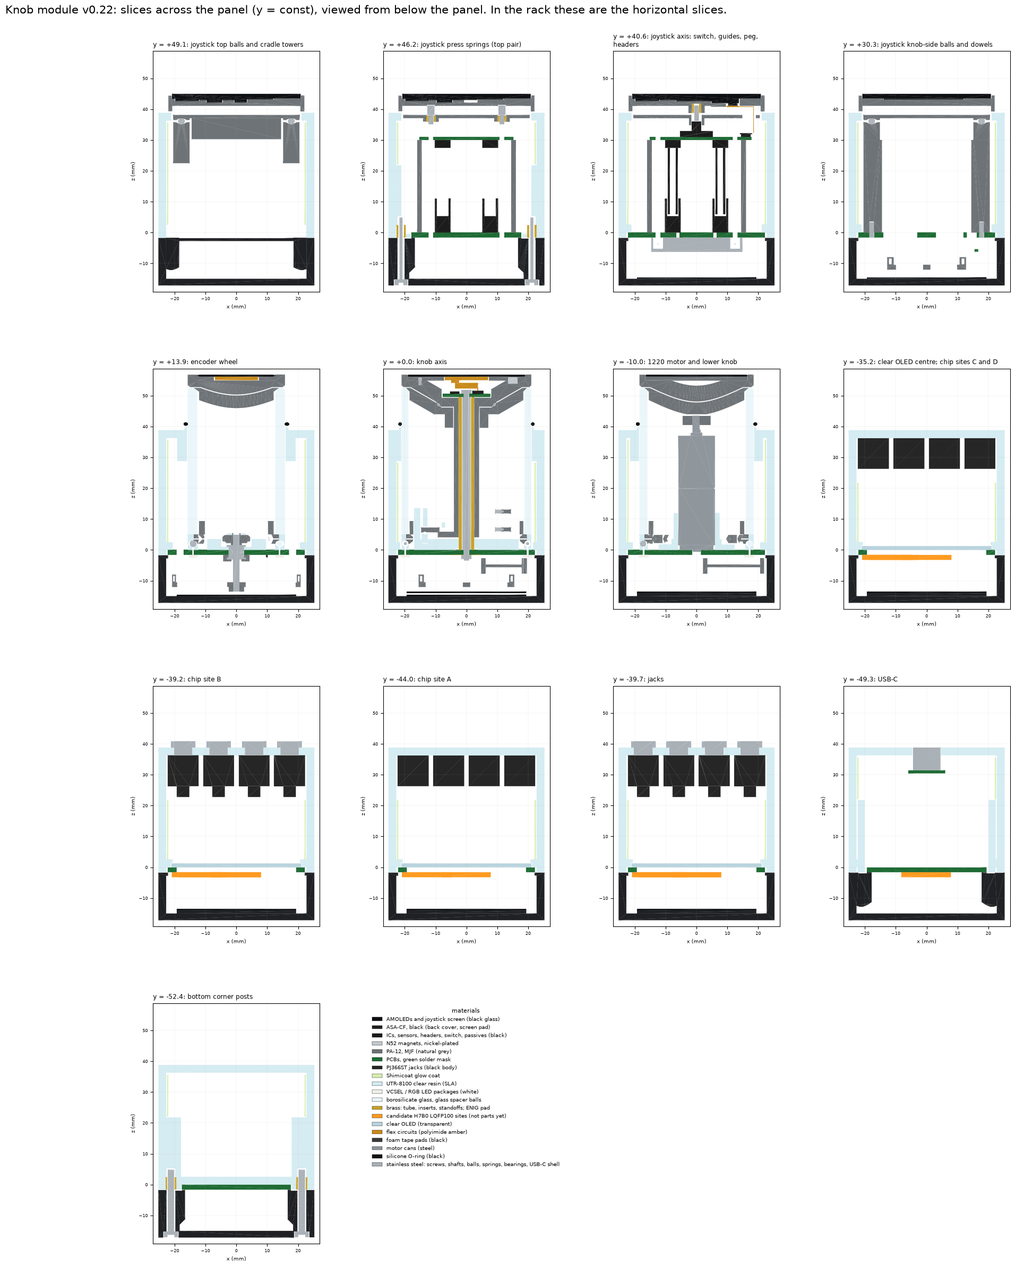
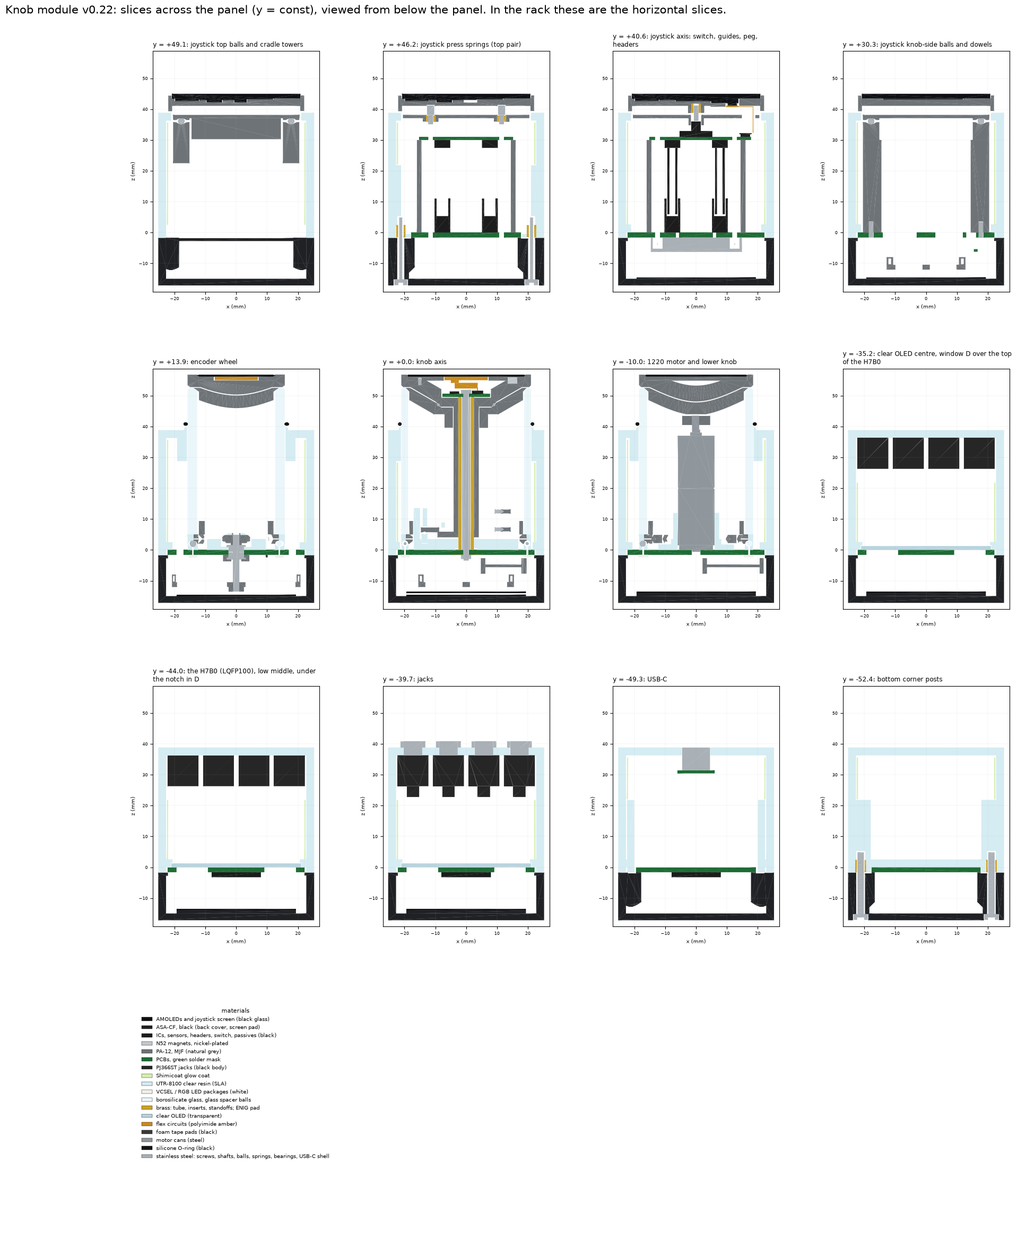
H7B0 LQFP100 on the board back at the low middle; window D notched round it [Ed 18:20, 18:34]
- electronics mcu: STM32H7B0VBT6 LQFP100 at (0, -43.95), panel frame, board back; 16 x 16 x 1.6
  over the leads [S], 17.2 courtyard for the chip + caps [A], 0.5 margin to the window
- tools/pcb_windows.py notches the courtyard + margin out of D (--no-mcu for the old D);
  D 697.7 mm² (was 917.4), A/B/C/E unchanged; 83% see-through behind the OLED's lit area
- model part "MCU STM32H7B0VBT6 LQFP100 (PCB back)"; BOM / colour rules; KiCad constraints carry mcu
- electronics checks: courtyard to window 0.50, chip vs back-side parts 0.98; OLED ledge row
  takes any D* window; KiCad parts under the courtyard left out of the proxy (R30-R32)
- atlas: candidate markers removed, cuts through the real chip
- full build 209/209, 0 clashes

Claude-Session: https://claude.ai/code/session_01WWsCM7QCNQUDgpRNvrXSbD

diff --git a/cad/knob-param/knobparam/electronics/params.py b/cad/knob-param/knobparam/electronics/params.py
@@ -25,16 +25,23 @@ P = dict(
                     # r 21.28, base-cradle track r 21.26), 0.5 round every obstacle (corner-column rings, encoder daughterboard/header/
                     # standoff, bearing 2 seat, joystick cradle footprint + its geom.json holes), 1.5 board rail, screen edges ±19.36,
                     # D = clear OLED less its 1.6 ledge, C/E 0.5 short of the OLED edge, 6 mm A/B web on x = 0 [A].
-                    # v0.20 (1.0 margins, keep-out 24.1): A 71.7, B 22.3, C 11.6, D 900.8, E 11.6 mm². A, B: rear AMOLED; C, E: front AMOLED; D: clear OLED
+                    # v0.20 (1.0 margins, keep-out 24.1): A 71.7, B 22.3, C 11.6, D 900.8, E 11.6 mm². A, B: rear AMOLED; C, E: front AMOLED; D: clear OLED (notched for the H7B0)
         "A": [(-19.36, 26.24), (-19.24, 26.73), (-18.81, 27.14), (-18.42, 27.24), (-17.56, 27.21), (-16.93, 27.33), (-16.22, 27.63), (-15.62, 28.09), (-15.13, 28.71), (-14.68, 29.6), (-14.07, 30.07), (-13.92, 31.36), (-13.63, 31.75), (-13.29, 31.94), (-3.9, 31.98), (-3.37, 31.75), (-3.04, 31.27), (-3, 22.65), (-3.04, 22.35), (-3.23, 22.01), (-3.73, 21.69), (-5.99, 21.17), (-8.04, 20.48), (-9.77, 19.71), (-11.42, 18.8), (-12.99, 17.75), (-14.47, 16.57), (-16.12, 14.98), (-17.63, 13.17), (-17.86, 12.99), (-18.24, 12.86), (-18.63, 12.89), (-18.98, 13.07), (-19.24, 13.37), (-19.36, 13.75)],
         "B": [(5.48, 21.31), (3.54, 21.76), (3.23, 22.01), (3, 22.55), (3, 30.98), (3.17, 31.54), (3.53, 31.86), (4, 31.98), (10.08, 31.98), (10.55, 31.86), (10.85, 31.62), (12.46, 29.71), (12.69, 29.17), (12.65, 28.78), (12.53, 28.52), (11.01, 27.18), (10.9, 26.93), (10.93, 26.66), (14.35, 22.55), (14.62, 22.38), (14.94, 22.41), (16.48, 23.66), (16.76, 23.76), (17.15, 23.77), (17.66, 23.5), (19.25, 21.6), (19.36, 21.15), (19.36, 13.85), (19.24, 13.38), (18.98, 13.07), (18.53, 12.87), (18.14, 12.88), (17.77, 13.04), (16.03, 15.07), (14.37, 16.66), (12.45, 18.14), (10.37, 19.4), (8.79, 20.17), (7.16, 20.8)],
         "C": [(10.43, -19.46), (12.67, -17.99), (14.47, -16.57), (16.02, -15.07), (17.78, -13.04), (18.14, -12.88), (18.53, -12.87), (18.9, -13.01), (19.19, -13.29), (19.36, -13.85), (19.36, -20.08), (19.24, -20.55), (18.92, -20.91), (18.36, -21.08), (11.02, -21.06), (10.51, -20.79), (10.24, -20.28), (10.29, -19.71)],
-        "D": [(19.36, -45.9), (19.28, -46.28), (19.07, -46.61), (18.74, -46.82), (18.36, -46.9), (-18.36, -46.9), (-18.83, -46.78), (-19.24, -46.37), (-19.36, -45.9), (-19.36, -24.18), (-19.24, -23.71), (-18.83, -23.3), (-18.36, -23.18), (18.36, -23.18), (18.83, -23.3), (19.24, -23.71), (19.36, -24.18)],
+        # [Ed 18:34] D notched round the H7B0 LQFP100 at the low middle (mcu below): 697.7 mm², was 917.4
+        "D": [(-9.1, -34.85), (-9.1, -45.9), (-9.14, -46.19), (-9.33, -46.53), (-9.63, -46.78), (-10.1, -46.9), (-18.36, -46.9), (-18.74, -46.82), (-18.99, -46.67), (-19.28, -46.28), (-19.36, -45.9), (-19.36, -24.18), (-19.24, -23.71), (-18.92, -23.35), (-18.36, -23.18), (18.36, -23.18), (18.74, -23.26), (19.19, -23.62), (19.36, -24.18), (19.36, -45.9), (19.28, -46.28), (18.92, -46.73), (18.36, -46.9), (10.1, -46.9), (9.63, -46.78), (9.33, -46.53), (9.14, -46.19), (9.1, -45.9), (9.1, -34.85)],
         "E": [(-19.36, -13.85), (-19.24, -13.37), (-18.82, -12.96), (-18.33, -12.85), (-17.78, -13.04), (-16.03, -15.07), (-14.47, -16.57), (-12.67, -17.99), (-10.5, -19.38), (-10.29, -19.71), (-10.22, -20.09), (-10.26, -20.38), (-10.45, -20.72), (-10.75, -20.96), (-11.22, -21.08), (-18.36, -21.08), (-18.65, -21.04), (-18.99, -20.85), (-19.24, -20.55), (-19.36, -20.18)],
     },
     clear_oled=(42.04, 27.22, 1.25),   # [S] EastRising ER-OLED1.51-1B / Waveshare 1.51" SSD1309 transparent, on the PCB front over window D
     clear_oled_xy=(0.0, -35.19),   # [Ed 2 Nov] v0.20: was -36.6; the knob dropped 5.2 on the panel (case knob_drop2) and the OLED 3.8
                                   # (case oled_drop), so it sits 1.4 closer to the knob. Window D moved with it
+    # [Ed 18:20 / 18:34] H7B0 MCU, LQFP100, on the board BACK at the LOW MIDDLE of window D (site A of the 18:13 picture): it
+    # sits in the bottom strip and takes a notch out of the bottom of D; D stays one window round its top. PANEL frame.
+    # body: [S] LQFP100 is 14 x 14, 16.0 over the leads, 1.6 max high. court: [A] chip + its decoupling caps (17.2 square).
+    # xy: as low as the free board back allows on x = 0 (courtyard bottom -52.55; board edge -53.3). margin: board kept between
+    # the courtyard and window D (the same 0.5 as every other window margin).
+    mcu=dict(part="STM32H7B0VBT6", pkg="LQFP100", xy=(0.0, -43.95), body=(16.0, 16.0, 1.6), court=17.2, margin=0.5),
     rod_pad_clear=0.3,   # [A] v0.16 B.Cu rod (VBUS) pad to the nearest other back-side copper / part / hole
     pcb_slot_clear=0.3,   # [A] motor-tab slot over the tab, each side
     hall_z=0.65,   # [A] TMAG5273 element above the adapter top

diff --git a/cad/knob-param/tools/pcb_windows.py b/cad/knob-param/tools/pcb_windows.py
@@ -1,6 +1,6 @@
 # Run from cad/knob-param:  PYTHONPATH=. python tools/pcb_windows.py out.json [--keep 22] [--margin 0.5] [--web 6] [--ab-top Y] [--table]
 #   (then paste the polygons into electronics pcb_windows; --table prints the keep-out / margin trade-off and writes nothing)
-"""PCB see-through windows A, B, C, E (+ D under the clear OLED), panel frame.
+"""PCB see-through windows A, B, C, E (+ D under the clear OLED, notched for the LQFP100), panel frame.
 
 Windows v2 ([Ed] 2 Nov: "these windows can be much bigger"): every window goes out to the REAL limits, each with a margin M
 (default 0.5; v0.20 used 1.0 and a 24.1 knob keep-out):
@@ -15,6 +15,8 @@ Obstacles (panel frame):
               ∪ geom.json cradle_ring outer ∪ geom.json main_pcb_holes (hold-down bores, dowel NPTHs), all + M
   J10         KiCad J10 pad field if it lands on the board (stale v0.11 position, outside the board now)
   clear OLED  D = OLED inset by its 1.6 ledge [Ed v0.19b]; C and E stop M short of the OLED's top edge
+  MCU         [Ed 18:34] electronics mcu (LQFP100 + caps, court 17.2 [A]) at the low middle: court + margin is notched out of
+              the bottom of D. --no-mcu leaves D whole.
   A/B web     a board strip of width WEB on x = 0 from the knob keep-out up to the joystick cradle, so A (left) and B
               (right) stay two windows and the knob region keeps a direct link to the top of the board [A]."""
 import math, json, sys, argparse, os
@@ -31,6 +33,7 @@ ap.add_argument("--rail", type=float, default=1.5, help="board kept inside the o
 ap.add_argument("--web", type=float, default=6.0, help="A/B web width on x = 0 [A]")
 ap.add_argument("--ab-top", type=float, default=None, help="cap A and B at this y (e.g. 26.06, the joystick grip block's shadow) [A]")
 ap.add_argument("--table", action="store_true", help="print the keep-out / margin trade-off table only")
+ap.add_argument("--no-mcu", action="store_true", help="leave D whole (ignore electronics mcu, the LQFP100 column)")
 a = ap.parse_args()
 
 D = model.derive(model.default_params())
@@ -97,8 +100,11 @@ def windows(keep, M, web, ab_top=None):
     Z["E"] = (lower & board).difference(blk) & box(-50, y_ce, 0, 0)
     Z["C"] = (lower & board).difference(blk) & box(0, y_ce, 50, 0)
     Z["D"] = (oled.buffer(-LEDGE, join_style=2) & board & lower).difference(blk)
+    if D.get("mcu") and not a.no_mcu:   # [Ed 18:34] LQFP100 at the low middle: its courtyard + margin notched out of D
+        (mx, my), hc = D["mcu"]["xy"], D["mcu"]["court"] / 2 + D["mcu"]["margin"]
+        Z["D"] = Z["D"].difference(box(mx - hc, my - hc, mx + hc, my + hc))
     out, area = {}, {}
-    for k in "ABCDE":
+    for k in sorted(Z):
         g = Z[k]
         gs = [g] if g.geom_type == "Polygon" else [p for p in getattr(g, "geoms", []) if p.geom_type == "Polygon"]
         gs = [p for p in gs if p.area > 4.0]
@@ -117,11 +123,11 @@ def windows(keep, M, web, ab_top=None):
 
 if a.table:
     print(f"hard limits: emitter bodies r {r_em:.2f}, cradle track r {r_track:.2f}, glass r {D['knob_od'] / 2:.2f}; web {a.web:g}, A/B top {a.ab_top}")
-    print("keep  M    " + "  ".join(f"{k:>6s}" for k in "ABCDE") + "   A+B+C+E     all")
+    print("keep  M    " + "  ".join(f"{k:>6s}" for k in "ABCE") + "  D(all)   A+B+C+E     all")
     for keep, M in ((24.06, 1.0), (23.0, 1.0), (22.5, 0.5), (22.0, 1.0), (22.0, 0.75), (22.0, 0.5), (21.8, 0.5), (21.8, 0.3)):
         _, ar = windows(keep, M, a.web, a.ab_top)
-        s = sum(ar.get(k, 0) for k in "ABCE")
-        print(f"{keep:5.2f} {M:4.2f} " + "  ".join(f"{ar.get(k, 0):6.1f}" for k in "ABCDE") + f"   {s:7.1f} {s + ar.get('D', 0):7.1f}")
+        s = sum(ar.get(k, 0) for k in "ABCE"); sd = sum(v for k, v in ar.items() if k.startswith("D"))
+        print(f"{keep:5.2f} {M:4.2f} " + "  ".join(f"{ar.get(k, 0):6.1f}" for k in "ABCE") + f"  {sd:6.1f}   {s:7.1f} {s + sd:7.1f}")
     sys.exit(0)
 
 print("pcb", x0, x1, y0, y1, "corners", D["corners"], "notch_r", D["notch_r"])

diff --git a/cad/knob-param/knobparam/electronics/checks.py b/cad/knob-param/knobparam/electronics/checks.py
@@ -6,9 +6,30 @@ def _area(p):
     return abs(sum(x0 * y1 - x1 * y0 for (x0, y0), (x1, y1) in zip(p, p[1:] + p[:1]))) / 2
 
 def _ledge(D):
-    w, h, _ = D["clear_oled"]; cx, cy = D["clear_oled_xy"]; P = D["pcb_windows"]["D"]
+    # window D (or every window whose key starts with D, if it is ever split): the OLED rests on the board round all of them
+    w, h, _ = D["clear_oled"]; cx, cy = D["clear_oled_xy"]
+    P = [pt for k, v in D["pcb_windows"].items() if k.startswith("D") for pt in v]
     xs, ys = [x for x, _ in P], [y for _, y in P]
     return min(min(xs) - (cx - w / 2), (cx + w / 2) - max(xs), min(ys) - (cy - h / 2), (cy + h / 2) - max(ys))
+
+def _seg_d(px, py, a, b):
+    (x0, y0), (x1, y1) = a, b; dx, dy = x1 - x0, y1 - y0
+    t = max(0.0, min(1.0, ((px - x0) * dx + (py - y0) * dy) / (dx * dx + dy * dy or 1e-12)))
+    return ((x0 + t * dx - px) ** 2 + (y0 + t * dy - py) ** 2) ** 0.5
+
+def _court_to_windows(D):
+    """board left between the MCU courtyard (square) and the nearest window edge (negative = the courtyard runs into a window)."""
+    (mx, my), c = D["mcu"]["xy"], D["mcu"]["court"] / 2
+    sq = [(mx - c, my - c), (mx + c, my - c), (mx + c, my + c), (mx - c, my + c)]
+    best = 1e9
+    for poly in D["pcb_windows"].values():
+        for p, q in zip(poly, poly[1:] + poly[:1]):
+            best = min(best, min(_seg_d(x, y, p, q) for x, y in sq))                                # courtyard corners to window edges
+        for x, y in poly:
+            if mx - c < x < mx + c and my - c < y < my + c:
+                return -1.0
+            best = min(best, min(_seg_d(x, y, a, b) for a, b in zip(sq, sq[1:] + sq[:1])))         # window corners to the courtyard
+    return best
 
 def checks(D, parts):
     T = D["tgt"]; r = Rows("electronics")
@@ -25,11 +46,20 @@ def checks(D, parts):
         areas = {k: _area(p) for k, p in D["pcb_windows"].items()}
         oled = [parts[n] for n in parts if n.startswith("clear OLED")]
         r.row("PCB windows: smallest window (mm²)", min(areas.values()), 10.0,
-              ", ".join(f"{k} {a:.0f}" for k, a in areas.items()) + "; KiCad back parts to move off the windows: " +
+              ", ".join(f"{k} {a:.0f}" for k, a in areas.items()) + "; KiCad back parts to move off the windows / MCU site: " +
               (", ".join(D["pcb_win_displaced"]) or "none") + " (left out of the proxy)")
         if oled:
-            r.row("clear OLED rests on the board round window D (narrowest ledge)", _ledge(D), 1.0,
+            dk = [k for k in D["pcb_windows"] if k.startswith("D")]
+            r.row(f"clear OLED rests on the board round window{'s' if len(dk) > 1 else ''} {' + '.join(dk)} (narrowest ledge)", _ledge(D), 1.0,
                   f"{D['clear_oled'][0]:g} x {D['clear_oled'][1]:g} on the PCB front at ({D['clear_oled_xy'][0]:g}, {D['clear_oled_xy'][1]:g})")
+        if D.get("mcu"):   # [Ed 18:34] H7B0 LQFP100 at the low middle, notched into the bottom of D
+            M = D["mcu"]
+            r.row(f"MCU {M['pkg']} courtyard ({M['court']:g} □ [A]) to the nearest window edge", _court_to_windows(D), M["margin"] - 0.01,
+                  f"{M['part']} on the board back at ({M['xy'][0]:g}, {M['xy'][1]:g}); D is notched at exactly this margin; D {sum(areas.get(k, 0) for k in areas if k.startswith('D')):.0f} mm²")
+            mp = [parts[n] for n in parts if n.startswith("MCU ")]
+            if mp and bp is not None:
+                r.row(f"MCU {M['pkg']} body vs the other back-side parts (KiCad proxy)", mp[0].distance_to(bp), D["rod_pad_clear"] - 0.01,
+                      "the KiCad parts under the courtyard are left out above (they move when the board is regenerated)")
     pad = [parts[n] for n in parts if n.startswith("PCB rod pad")]
     if pad:
         r.row("rod VBUS pad (B.Cu) vs back-side parts / pads", pad[0].distance_to(parts["PCB back parts (Hall decouplers, J10, DRV8837, passives)"]), D["rod_pad_clear"] - 0.01,

diff --git a/cad/knob-param/knobparam/assembly/section_atlas.py b/cad/knob-param/knobparam/assembly/section_atlas.py
@@ -26,17 +26,8 @@ def _parts():
     parts, keys = view(parts, keys, D, "panel")
     jp, JD = js.placed()
     parts = dict(parts); parts.update(jp)
-    # [Ed 17:37] the H7B0 stays LQFP100 and takes part of window D: the four candidate sites (2 Nov, 17:40), drawn as 16 x 16 x 1.6
-    # bodies (leads included) on the board back so the sections show where each would sit. Not parts yet; window D is not cut for them.
-    from build123d import Box, Pos, Align
-    zb = D["z_pcb_back"]
-    for tag, (x, y) in CHIP_SITES.items():
-        parts[f"candidate H7B0 LQFP100 site {tag}"] = Pos(x, y, zb - 0.01) * Box(16.0, 16.0, 1.6, align=(Align.CENTER, Align.CENTER, Align.MAX))
+    # [Ed 18:34] the H7B0 (LQFP100) is an electronics part now: board back at the low middle, D notched round it
     return D, JD, parts
-
-
-CHIP_SITES = {"A (low centre)": (-0.15, -43.95), "B (low left)": (-12.9, -39.2), "C (centre, full height)": (0.0, -35.04),
-              "D (left end, full height)": (-10.76, -35.04)}
 
 
 def _moved(parts, loc):
@@ -163,7 +154,8 @@ def sheet_across(D, JD, parts, out):
     cuts = [(py + JD["by_top"], "joystick top balls and cradle towers"), (py + 5.6, "joystick press springs (top pair)"),
             (py, "joystick axis: switch, guides, peg, headers"), (py - JD["by_bot"], "joystick knob-side balls and dowels"),
             (enc_y, "encoder wheel"), (0.0, "knob axis"), (-10.0, "1220 motor and lower knob"),
-            (D["clear_oled_xy"][1], "clear OLED centre; chip sites C and D"), (-39.2, "chip site B"), (-43.95, "chip site A"),
+            (D["clear_oled_xy"][1], "clear OLED centre, window D over the top of the H7B0"),
+            (D["mcu"]["xy"][1], "the H7B0 (LQFP100), low middle, under the notch in D"),
             (D["jack_y"], "jacks"), (D["usb_xy"][1], "USB-C"),
             (D["corners"][0][1], "bottom corner posts")]
     ncol = 4
@@ -195,10 +187,10 @@ def sheet_oblique(D, JD, parts, out):
                                   "as it comes out of the panel"),
             ("t", py, JD["z_ball"], -30, "tilted plane through the joystick axis at the ball height, leaning 30°\n"
                                          "toward the knob as it comes out of the panel"),
-            ("v", -0.15, -43.95, 25, "through chip site A (low centre), 25°"),
-            ("v", -12.9, -39.2, 65, "through chip site B (low left), 65°"),
-            ("t", -40.0, -1.0, 35, "tilted plane through the board back at y −40 (chip sites), leaning 35°\n"
-                                   "toward the knob as it comes out of the panel")]
+            ("v", D["mcu"]["xy"][0], D["mcu"]["xy"][1], 25, "through the H7B0 (LQFP100), 25°"),
+            ("v", D["mcu"]["xy"][0], D["mcu"]["xy"][1], 155, "through the H7B0 (LQFP100), 155°"),
+            ("t", D["mcu"]["xy"][1], -1.0, 35, f"tilted plane through the board back at y {D['mcu']['xy'][1]:g} (the H7B0), leaning 35°\n"
+                                              "toward the knob as it comes out of the panel")]
     ncol = 3
     nrow = math.ceil(len(jobs) / ncol)
     fig = plt.figure(figsize=(ncol * 7.6, nrow * 5.8 + 1.6), dpi=100)
@@ -282,7 +274,7 @@ def sheet_overall(D, parts, out, tol=0.08):
         l, _c = colour(n); legend.setdefault(l, _c)
     fig.legend(handles=[Patch(fc=c, ec="k", lw=0.3, label=l) for l, c in sorted(legend.items())], loc="lower center", ncol=4,
                fontsize=11, frameon=False)
-    fig.suptitle(f"Knob module {D['version']}: complete assembly (knob stack, case, joystick v0.6; candidate LQFP100 sites in orange). "
+    fig.suptitle(f"Knob module {D['version']}: complete assembly (knob stack, case, joystick v0.6; H7B0 LQFP100 on the board back, low middle). "
                  "Resin case drawn see-through.",
                  fontsize=16, x=0.01, ha="left")
     fig.subplots_adjust(bottom=0.08, left=0.01, right=0.99)

diff --git a/cad/knob-param/knobparam/electronics/parts/pcb.py b/cad/knob-param/knobparam/electronics/parts/pcb.py
@@ -81,7 +81,11 @@ def build(D):
            f"PCB rod pad VBUS Ø{2 * D['rod_pad_r']:.1f} (B.Cu)": pad}
     out.update({k: _mr(D) * v for k, v in emitters(D).items()})
     w, h, th = D["clear_oled"]; cx, cy = D["clear_oled_xy"]
-    out['clear OLED 1.51" SSD1309 (PCB front, over window D)'] = Pos(cx, cy, 0) * Box(w, h, th, align=(Align.CENTER, Align.CENTER, Align.MIN))
+    dk = " + ".join(k for k in D["pcb_windows"] if k.startswith("D"))
+    out[f'clear OLED 1.51" SSD1309 (PCB front, over window {dk})'] = Pos(cx, cy, 0) * Box(w, h, th, align=(Align.CENTER, Align.CENTER, Align.MIN))
+    if D.get("mcu"):   # [Ed 18:34] H7B0 on the board back, low middle (panel frame): envelope over the leads, decoupling caps not modelled
+        M = D["mcu"]; bw, bl, bh = M["body"]
+        out[f"MCU {M['part']} {M['pkg']} (PCB back)"] = Pos(M["xy"][0], M["xy"][1], -t - bh) * Box(bw, bl, bh, align=A)
     return out
 
 def _in_poly(x, y, poly):
@@ -92,14 +96,17 @@ def _in_poly(x, y, poly):
     return inside
 
 def window_hits(D, K):
-    """KiCad back parts (panel-frame ones) whose footprint box touches a window."""
+    """KiCad back parts (panel-frame ones) whose footprint box touches a window or the MCU courtyard [Ed 18:34]."""
     out = []
+    M = D.get("mcu")
     for p in K.get("back_parts", []):
         if _is_mech(D, p["x"], p["y"]):
             continue
         hw, hl = p["w"] / 2, p["l"] / 2
         pts = [(p["x"] + sx * hw, p["y"] + sy * hl) for sx in (-1, 0, 1) for sy in (-1, 0, 1)]
         if any(_in_poly(x, y, poly) for poly in D["pcb_windows"].values() for x, y in pts):
+            out.append(p["ref"])
+        elif M and abs(p["x"] - M["xy"][0]) < hw + M["court"] / 2 and abs(p["y"] - M["xy"][1]) < hl + M["court"] / 2:
             out.append(p["ref"])
     return out
 

diff --git a/cad/knob-param/knobparam/assembly/colours.py b/cad/knob-param/knobparam/assembly/colours.py
@@ -28,7 +28,6 @@ MATERIALS = {
     "glow":    ("Shimicoat glow coat", "#d7efae", False),
     "silicone": ("silicone O-ring (black)", "#141414", False),
     "foam":    ("foam tape pads (black)", "#3a3a3a", False),
-    "candidate": ("candidate H7B0 LQFP100 sites (not parts yet)", "#ff9a1f", False),
     "other":   ("unassigned (check the material rules)", "#ff00ff", False),
 }
 
@@ -39,7 +38,7 @@ def key(name):
     # name overrides first: places where the BOM material string is generic or the part is a sub-feature
     if "o-ring" in low: return "silicone"
     if "foam pad" in low: return "foam"                       # v0.6 joystick screen pads
-    if low.startswith("candidate "): return "candidate"       # chip-site study markers
+    if low.startswith("mcu "): return "ic"                     # [Ed 18:34] H7B0 LQFP100 on the main PCB back
     if "jumper" in low and ("b2b socket" in low or "plug end" in low): return "ic"   # v0.6 jumper connectors
     if "seal ring" in low: return "petg"
     if "clear oled" in low: return "oled"

diff --git a/cad/knob-param/knobparam/assembly/plan_sheet.py b/cad/knob-param/knobparam/assembly/plan_sheet.py
@@ -114,8 +114,8 @@ def main():
         (D["hb_mid"], "ring band: herringbone ring, encoder and idler pinions"),
         (5.0, "Hall arm, single detent, lever"),
         (0.5, "PCB front: Hall sensors, cradle plate, motor tabs, clear OLED over window D"),
-        (D["z_pcb_back"] / 2, "main PCB: windows A B C E + D (clear OLED), corner notches, holes"),
-        (D["z_pcb_back"] - 0.6, "PCB back: emitters, bearing 2 seat"),
+        (D["z_pcb_back"] / 2, "main PCB: windows A B C E + D (clear OLED, notched for the H7B0), corner notches, holes"),
+        (D["z_pcb_back"] - 0.6, "PCB back: emitters, bearing 2 seat, H7B0 LQFP100 (low middle, under the notch in D)"),
         ((D["fg_z_top"] + D["fg_z_bot"]) / 2, "feel compound gear (under the PCB)"),
         ((D["h_big_top"] + D["h_big_bot"]) / 2 if "h_big_top" in D else -11.2, "encoder disc, sensor (top, under the joystick)"),
         (D["amo_lower_z"][0] + D["amo_t"] / 2, "lower (front) AMOLED on its pad"),

diff --git a/cad/knob-param/knobparam/electronics/kicad/export_cad_constraints.py b/cad/knob-param/knobparam/electronics/kicad/export_cad_constraints.py
@@ -43,6 +43,7 @@ def main():
         pcb_windows={k: [list(p) for p in v] for k, v in D.get("pcb_windows", {}).items()},   # v0.19b Edge.Cuts cut-outs, PANEL frame
         js_pcb_holes=D.get("js_pcb_holes", []),   # v0.19b joystick standoff screws + hold-down springs, PANEL frame
         clear_oled=dict(size=D.get("clear_oled"), xy=D.get("clear_oled_xy")),
+        mcu=D.get("mcu"),   # [Ed 18:34] H7B0 LQFP100 on B.Cu at the low middle (PANEL frame), D notched round it; court = keep-out for its caps
         drv=__import__("knobparam.electronics.parts.pcb", fromlist=["drv_place"]).drv_place(D),   # v0.19b U20, C20–C22 (B.Cu)
         fm_pad_xy=D["fm_pad_xy"], fm_xy=D["fm_xy"], fm_ang=D["fm_ang"], fm_cd=D["fm_cd"], feel=D["feel"],
         rod_pad_r=D["rod_pad_r"], rod_pad_clear=D["rod_pad_clear"], h1_hole=D["h1_hole"],

diff --git a/cad/knob-param/knobparam/assembly/export_parts.py b/cad/knob-param/knobparam/assembly/export_parts.py
@@ -8,6 +8,7 @@ from collections import OrderedDict
 
 # (regex on the part name, kind, material, process). First match wins. kind: print | buy | board | ref
 RULES = [
+    (r"^MCU ", "board", "PCBA parts (STM32H7B0VBT6, LQFP100)", "PCBWay PCBA"),   # [Ed 18:34] main PCB back, low middle
     (r"magnet", "buy", "N52 magnet", "buy"),
     (r"locating pin|dowel", "buy", "steel dowel", "buy"),
     (r"saddle strap|saddle seat|screen carrier|holder", "print", "PA-12", "MJF"),

diff --git a/docs/pcb-windows-v2-2026-11-02.md b/docs/pcb-windows-v2-2026-11-02.md
@@ -100,3 +100,24 @@ A and B take part of the bottom strip, where the 14-way and power plugs (and pro
   behind the OLED's lit area **50%** with the OLED's flex at the bottom, **70%** with the OLED turned over (flex at the top, which then
   runs into the knob's emitter ring and cradle: no connector room there [C]). Low middle (A): 698 mm², **83%**.
   Picture: `docs/img/lqfp100-top-vs-low.png`.
+
+## [Ed 18:20 "C pls", 18:34 "this is the version I meant"] LQFP100 at the low middle
+"C" was the third panel of the 18:13 picture (`lqfp100-top-vs-low.png`): **A, low middle, OLED flex at the bottom**.
+- The H7B0 (STM32H7B0VBT6, LQFP100) sits on the board **back** at (0, −43.95), panel frame: in the bottom strip, as low as the
+  free board back allows on x = 0 (courtyard bottom −52.55; board edge −53.3). Electronics param `mcu`: body 16 × 16 × 1.6
+  over the leads [S], courtyard 17.2 □ for the chip and its decoupling caps [A], 0.5 margin to the window.
+- `tools/pcb_windows.py` notches the courtyard + 0.5 out of the bottom of D (x ±9.1, up to y −34.85). D stays one window:
+  **697.7 mm²** (was 917.4). A, B, C and E regenerate identically. `--no-mcu` gives the old D back.
+- See-through behind the OLED's lit area: **83%** with its flex at the bottom [A]. The OLED still rests on its 1.6 ledge all
+  round D.
+- The chip takes the middle of the bottom strip, where the 14-way and power plugs (and probably the clear OLED's connector)
+  were going [C]: those need homes either side of it, or on the front, when the board is regenerated. The stale J10 pad field
+  ends 0.98 below the chip body.
+- KiCad back parts left out of the proxy until the board is regenerated: R20–R22 (in D), R30–R32 (under the courtyard).
+- New checks (electronics): courtyard to the nearest window edge 0.50 (≥ 0.49; D is notched at exactly this margin), chip
+  body to the other back-side parts 0.98 (≥ 0.29). Full build 209/209, no clashes. Nearest structure: the back cover
+  1.35 from the chip body (about 0.75 from the courtyard edge), the case 1.65.
+- The model carries the chip as a part (`MCU STM32H7B0VBT6 LQFP100 (PCB back)`, black, PCBA in the BOM). The KiCad
+  constraints export (`export_cad_constraints.py`) now carries `mcu` for the regeneration.
+- The candidate markers are gone from the section atlas; its across and oblique cuts now go through the real chip.
+  Picture: `docs/img/lqfp100-low-middle.png`.
